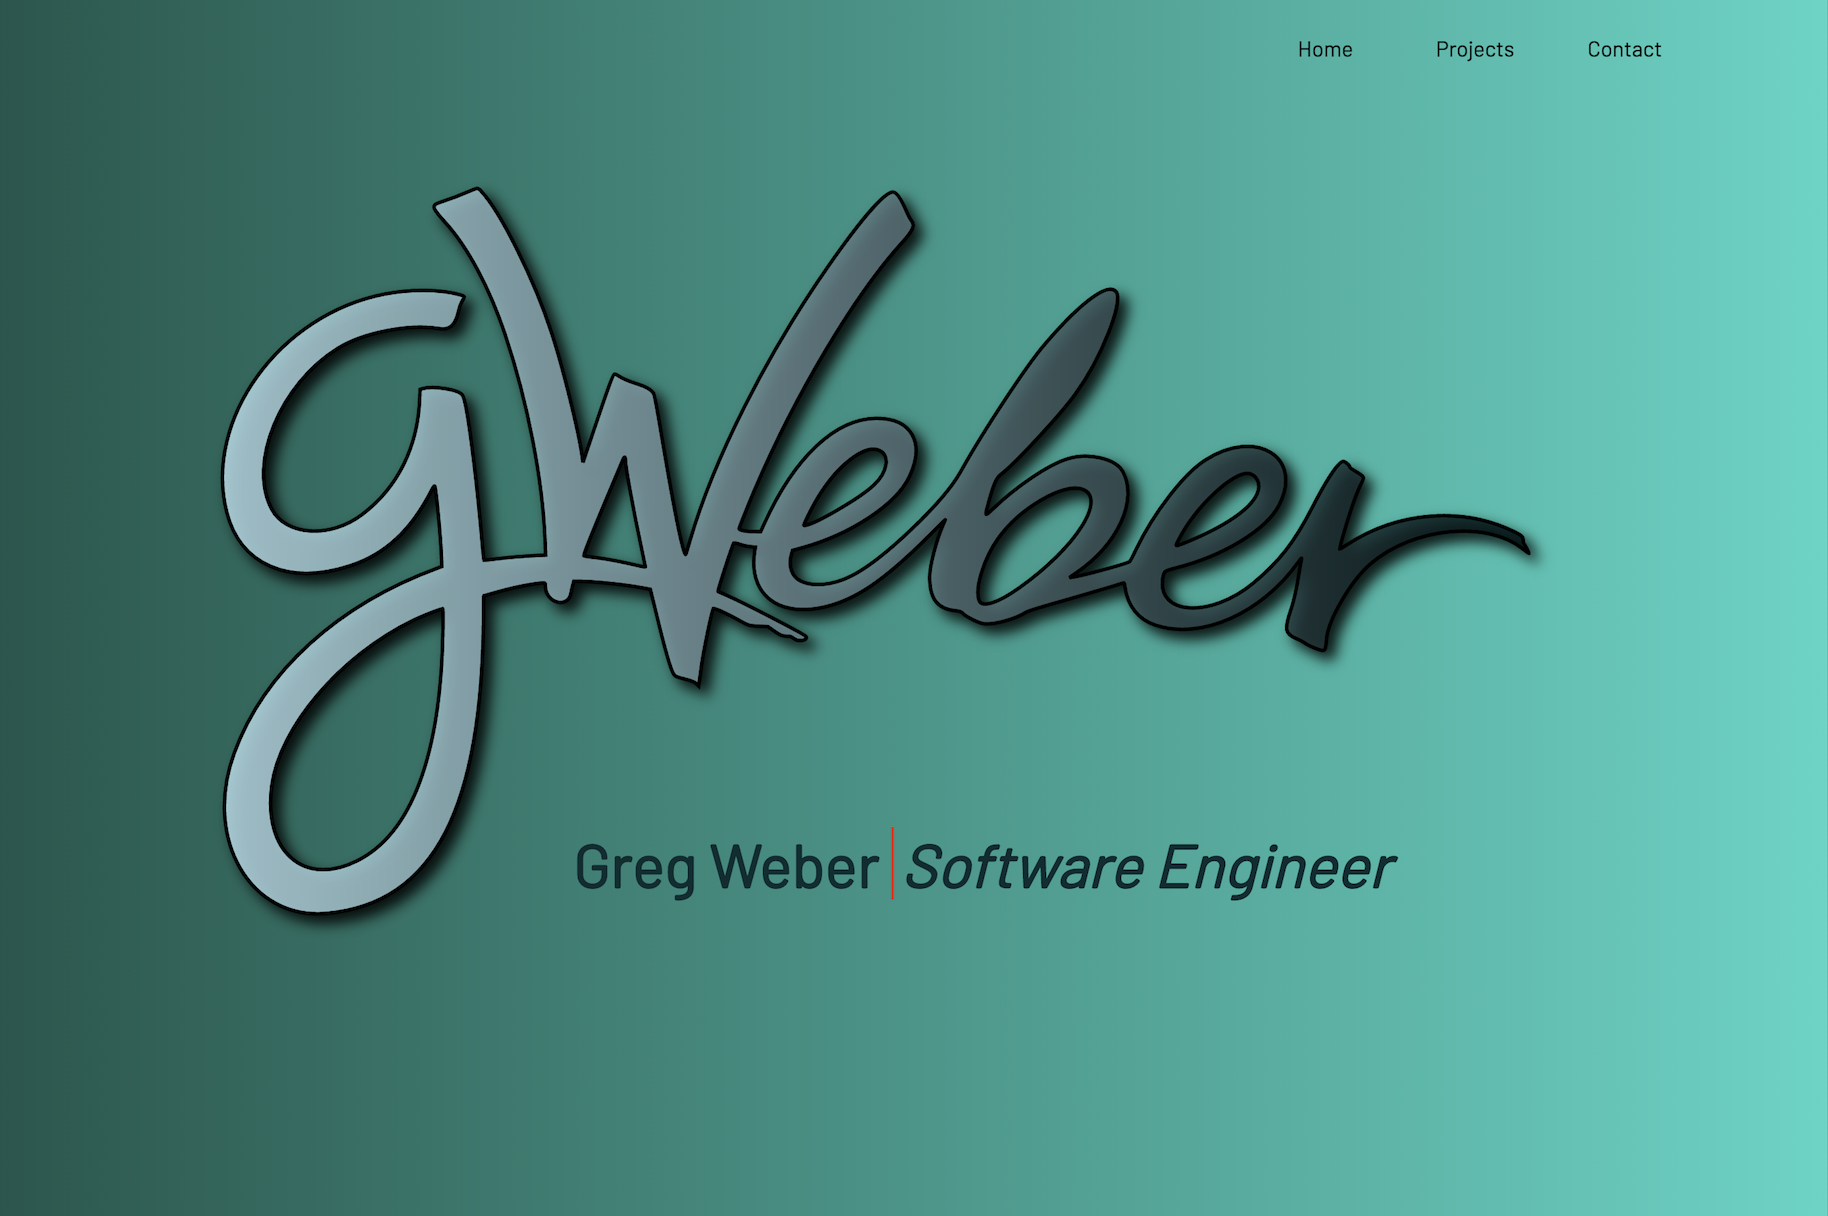
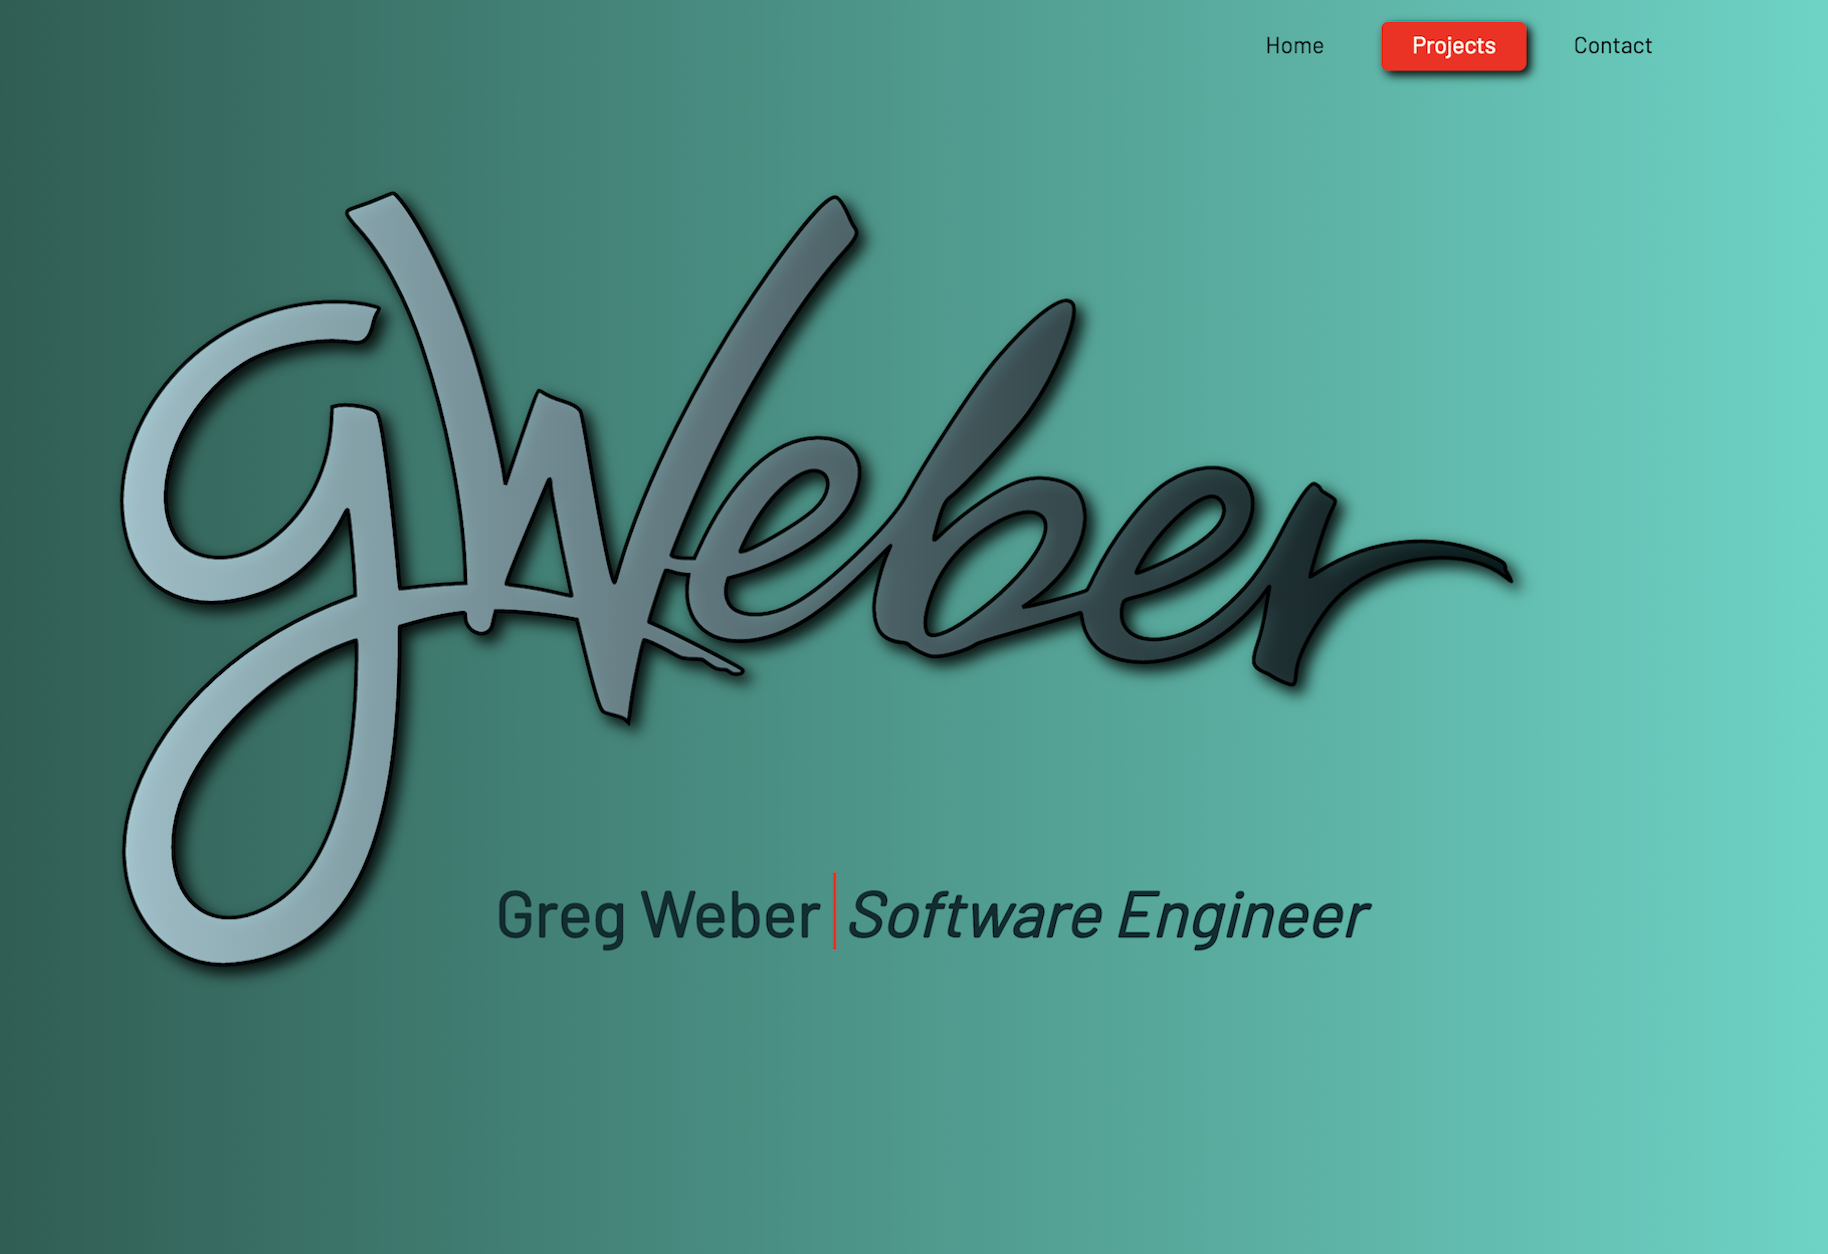
added python project

Changed region(s): [[0.0624, 0.1562, 0.8419, 0.7812], [0.686, 0.0, 0.8419, 0.0625], [0.8731, 0.0312, 0.9043, 0.0625]]

diff --git a/static/styles/main.css b/static/styles/main.css
@@ -254,6 +254,7 @@ svg:hover {
     display: flex;
     flex-direction: column;
     height: 100%;
+    padding-top: 18px;
 }
 
 #screenShot img{
